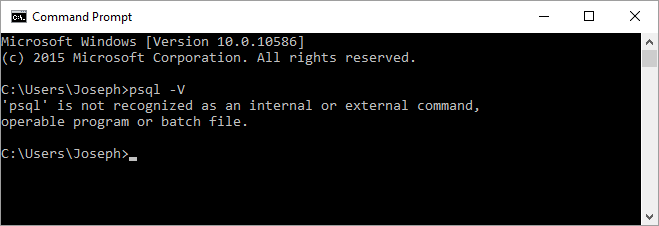
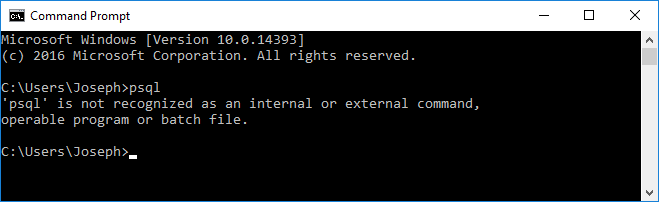
update windows install instructions with PGUSER

diff --git a/manuscript/installation.md b/manuscript/installation.md
@@ -8,9 +8,9 @@ Why type commands the command line?  Although there are point-and-click graphica
 
 ### Obtain and install PostgreSQL 
 
-First, visit [www.postgresql.org](https://www.postgresql.org/) for the latest information about PostgreSQL.  Take note of the latest *stable* version number, which at the time of this writing appears under the heading "LATEST RELEASES".  There will probably also be an announcement about an unfinished future version, in alpha or beta test stage, but I recommend you avoid that one.  From the homepage, follow the "Download" link(s) until you find a Windows installer for the latest version.  At the time of this writing these links take you to the website of EnterpriseDB, a company that promotes PostgreSQL.
+First, visit [www.postgresql.org](https://www.postgresql.org/) for the latest information about PostgreSQL.  Take note of the latest *stable* version number, which at the time of this writing appears under the heading "LATEST RELEASES".  There will probably also be an announcement about an unfinished future version, in alpha or beta test stage, but I recommend you avoid that one.  From the homepage, follow the "Download" link(s) until you find a Windows installer for the latest version.  At the time of this writing, the first option listed on the website is an interactive installer provided by EnterpriseDB, a company that promotes PostgreSQL.
 
-Unless your computer is very old, it should be a 64-bit system, so you'll click the link for the "Win x86-64" installer.  Again, make sure you're not downloading the unstable alpha or beta, but are getting the newest mature release.  The download may take some time if you have a slow connection.  When you have downloaded the installer, run it.
+Unless your computer is very old, it should be a 64-bit system, so you'll want to choose the "Win x86-64" installer.  Again, make sure you're not downloading the unstable alpha or beta, but are getting the newest mature release.  The download may take some time if you have a slow connection.  When you have downloaded the installer, run it.
 
 ![Figure A-1: The PostgreSQL installer](/images/A-1installer.png)
 
@@ -30,29 +30,45 @@ To get to the Windows command line, search for the program called "cmd.exe".  In
 
 Upon opening this application, you'll be presented with a text-only window into which you can enter commands one at a time.  Type `help` and hit Enter for a list of basic commands you can use to navigate this interface.  Most likely you'll find `cd` (change directory) and `dir` (list the files in a directory) useful for navigating folders and getting to your work.
 
-Test your PostgreSQL installation by typing `psql -V`.  If the output of this command is the PostgreSQL version number, you're done with installation, and may go back to Chapter 1 to begin the lab.  More likely, though, you'll get an error message saying that `psql` isn't recognied as command or program.  That means there's one more step to do: we need to set your PATH.
+Test your PostgreSQL installation by typing `psql -V`.  If the output of this command is the PostgreSQL version number, try then entering `psql` to log in to the database server.  If `psql` opens without an error message, you're done with installation, and may go back to Chapter 1 to begin the lab.  
 
-![Figure A-5: This error indicates that I need to correct my PATH.](/images/A-5notfound.png)
+More likely, though, you'll get an error message saying that `psql` isn't recognized as command or program.  Failing that, you'll get an error message saying that your password is wrong.  In either case, this means there's one more step to do: we need to set two important environment variables.
 
-When you type the name of a program, like PostgreSQL's command line interface `psql`, the operating system looks in a number of directories to find a program of that name.  If it doesn't find one, you'll see an error message like that shown in Figure A-5.  The PATH is the environment variable that stores the list of directories to search in.  You'll need to find out where `psql` lives on your system, and add that directory to the PATH.
+### Setting environment variables in Windows 10
 
-Finding `psql` is the easy part.  It's most likely in the directory `C:\Program Files\PostgreSQL\9.5\bin` (change "9.5" if necessary, depending on the version you installed).  If not, use your system's search tools or poke around until you find it.  By the way, the true name of this file is "psql.exe", with the ".exe" suffix signifying to Windows that it is an executable program.  Depending on your folder settings, you may or may not see the suffix.
+Environment variables are data that are accessible to all programs running on your system, and they're usually used for things that multiple programs need to know about (such as the location of your database) but which may be different from one computer to the next.  By using an environment variable to store this information, you don't have to include it in code.  Therefore a program could be developed on one computer and deployed to another that has things set up differently, and the original code wouldn't need to be altered.  In the code, instead of saying "connect to the database located in directory C:/X/Y/Z", you'd say "connect to the database at environment variable DATABASE_LOCATION".
+
+The first environment variable we need to get right is the PATH.  When you type the name of a program, like PostgreSQL's command line interface `psql`, the operating system looks in a number of directories to find a program of that name.  If it doesn't find one, you'll see an error message saying "psql is not recognized as an internal or external command".  The PATH is the environment variable that stores the list of directories to search in.  To configure it correctly, first find out where `psql` lives on your system, and then add that directory to the PATH.
+
+![Figure A-5: This error means my PATH is not configured.](/images/A-5notfound.png)
+
+Finding `psql` is the easy part.  It's most likely in the directory `C:\Program Files\PostgreSQL\9.6\bin` (change "9.6" if necessary, depending on the version you installed).  If not, use your system's search tools or poke around until you find it.  By the way, the true name of this file is "psql.exe", with the ".exe" suffix signifying to Windows that it is an executable program.  Depending on your folder settings, you may or may not see the suffix.
 
 To alter the PATH, navigate to the "System" control panel.  Windows 10 makes this a little more complicated than in earlier versions of Windows.  You can either do a search for "Control Panel" and then click to "System", *or* you can go to the Settings panel, click "System", then scroll down and click "About", then scroll down and click "System Info".  Either way you'll find yourself on a page that displays basic information about your computer, its processor, memory, and operating system version among other details.  On the left, click "Advanced system settings".  A new window will appear.  Near the bottom of that window, click the button for "Environment Variables...".
 
 ![Figure A-6: Windows environment variables settings](/images/A-6winenvvars.png)
 
-Environment variables are data that are accessible to all programs running on your system, and they're usually used for things that multiple programs need to know about (such as the location of your database) but which may be different from one computer to the next.  By using an environment variable to store this information, you don't have to include it in code.  Therefore a program could be developed on one computer and deployed to another that has things set up differently, and the original code wouldn't need to be altered.  In the code, instead of saying "connect to the database located in directory C:/X/Y/Z", you'd say "connect to the database at environment variable DATABASE_LOCATION".
-
 In the environment variable control panel (see Figure A-6), you'll see a list of variables specific to your user account, and a list of variables that apply to the whole system (all possible users).  You can alter the PATH (or "Path", "path", "pAtH", etc.) in either of these lists, or create it if it doesn't already exist.  If one already exists, select it and click "Edit...".  Add a new listing to the end of the PATH for the directory where `psql` lives.  Do not delete existing entries!  They are probably important for other programs you use.
 
 ![Figure A-7: Adding a new entry to the PATH; in previous versions of Windows this is a long, messy text box but it serves the same purpose.](/images/A-7winpath.png)
 
-Once you have updated the PATH and clicked "OK" in the Environment Variables control panel, you must open a new command prompt window with `cmd`.  Now the command `psql -V` should give you the expected response, as seen in Figure A-8.  If not, you may have made a typographical error in setting the PATH or you may be using a `cmd` window that was opened before you made the change.  Close all windows and try again, or seek help from an expert.
+Click 'OK'.  You may now open a new command prompt and try `psql` again, and you'll most likely get the confusing error illustrated in figure A-8.  The program will ask you for the password--the same password you dutifully wrote down during installation (see above)--and then will tell you that "authentication failed for user YourName".  What this means is not that you got the password wrong, but that Postgres got the username wrong.  It assumed your database username was the same as your Windows username.  Glancing back up at figure A-2, you'll see that the database user is simply named "postgres".
 
-Setting the system's PATH has been a stumbling block for many of my students, especially since it has to be done on day one, but I promise that it only needs to be done once!
+![Figure A-8: This error means that PostgreSQL guessed the username wrong.]
 
-![Figure A-8: PostgreSQL is now installed and accessible from the command line.](/images/A-8working.png)
+There's a workaround for this problem: you can append "`-U postgres`" to all database commands to specify the username, e.g.:
+
+    psql -U postgres
+
+However, that's a bit tedious, and there's a better solution. When `psql` runs, it checks for a username stored in an environment variable called PGUSER before guessing that you want to use your Windows username.
+
+To set this environment variable, click "New..." and enter the name `PGUSER` with the value `postgres`.  Then click "OK".
+
+![Figure A-9: Setting the PGUSER environment variable.](/images/A-9pguser.png)
+
+After configuring the PATH and PGUSER environment variables, you must click "OK" to close the Environment Variables control panel.  Then open a new command prompt and try `psql`.  If you successfully log in to the database server (as in Figure A-10), you're up and running!
+
+![Figure A-10: Up and running with Postgres on Windows 10](/images/A-10win10success.png)
 
 ## Setting up PostgreSQL on a Mac
 
@@ -62,7 +78,7 @@ The home of PostgreSQL is [www.postgresql.org](https://www.postgresql.org/) and,
 
 For Mac users, there are actually quite a few ways to obtain Postgres, including an installer program provided by EnterpriseDB, an "app", and the Homebrew package manager.  I've found the Homebrew installation quite painless, and it looks like Homebrew may have other handy uses (such as starting and stopping the database server), so that's the approach I recommend for you.
 
-![Figure A-9: Homewbrew's website http://brew.sh/](/images/A-9homebrew.png)
+![Figure A-11: Homewbrew's website http://brew.sh/](/images/A-11homebrew.png)
 
 If you don't have Homebrew yet, visit their website at [brew.sh](http://brew.sh) for instructions.  The easiest way to install Homebrew is to open up a Terminal window and paste the code provided on the web page.  This downloads an installation script and runs it on your computer.
 
@@ -72,17 +88,17 @@ Installing Postgres with Homebrew couldn't be easier.  Assuming you have install
 
     brew install postresql
 
-![Figure A-10: Installing PosgreSQL with Homebrew](/images/A-10macbrewinstall.png)
+![Figure A-12: Installing PosgreSQL with Homebrew](/images/A-12macbrewinstall.png)
 
-Upon your hitting ENTER, Homebrew should proceed to download Postgres, install it, and configure it for use.  You will see a number of messages scrolling by (see for example, Figure A-11) and a new prompt will appear when installation is complete.
+Upon your hitting ENTER, Homebrew should proceed to download Postgres, install it, and configure it for use.  You will see a number of messages scrolling by (see for example, Figure A-13) and a new prompt will appear when installation is complete.
 
-![Figure A-11: A successful installation using Homebrew](/images/A-11macbrewmessages.png)
+![Figure A-13: A successful installation using Homebrew](/images/A-13macbrewmessages.png)
 
 ### Starting the server and creating a database
 
 You can test that you installed the software by entering `psql -V` at the command line.  The system should respond by telling you the version of Postgres that you installed.  (Tip: if this fails, try closing the Terminal window and opening a new one, then re-enter the command.)
 
-![Figure A-12: `psql` works, so the software was installed right.](/images/A-12psql-v.png)
+![Figure A-14: `psql` works, so the software was installed right.](/images/A-14psql-v.png)
 
 On the Mac, though, there are a couple of additional things to do.  Remember that `psql` is just a utility for talking to the database; for it to be useful we must first start the database.  As you might have seen in the messages output by the installation, we can start the server with a Homebrew command like this:
 
@@ -92,9 +108,9 @@ The PostgreSQL server is now running in the background on your computer, and it 
 
     brew services stop postgresql
 
-There's one last thing to do now.  By default, if you simply enter `psql` at the command line, Postgres tries to open a database with the same name as your Mac OS username.  Since that database doesn't exist yet, it will fail.  The simple solution is to use `createdb <username>` (see Chapter 1) to create the database it's looking for.  Figure A-13 illustrates the error messages you may encounter, and the steps needed to successfully start the server and create the default database.
+There's one last thing to do now.  By default, if you simply enter `psql` at the command line, Postgres tries to open a database with the same name as your Mac OS username.  Since that database doesn't exist yet, it will fail.  The simple solution is to use `createdb <username>` (see Chapter 1) to create the database it's looking for.  Figure A-15 illustrates the error messages you may encounter, and the steps needed to successfully start the server and create the default database.
 
-![Figure A-13: Starting the server and creating the default database](/images/A-13macstartcreatedb.png)
+![Figure A-15: Starting the server and creating the default database](/images/A-15macstartcreatedb.png)
 
 Now your Mac should be ready to play with all the examples in this book.
 
